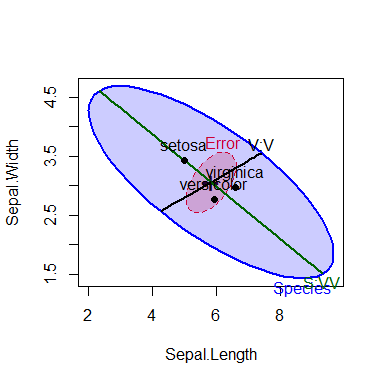
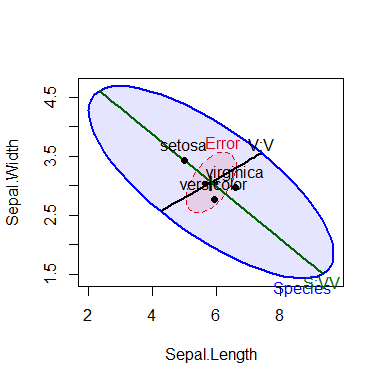
update README

Changed region(s): [[0.2188, 0.2188, 0.875, 0.7188]]

diff --git a/README.md b/README.md
@@ -32,14 +32,32 @@ Friendly & Sigal (2017) for an applied R tutorial.
 
 Other topics now addressed here include:
 
--   robust MLMs,
+-   robust MLMs, using iteratively re-weighted least squared to
+    down-weight observations with large multivariate residuals,
+    `robmlm()`.
+-   `Mahalanobis()` calculates classical and robust Mahalanobis squared
+    distances using MCD and MVE estimators of center and covariance.
 -   visualizing tests for equality of covariance matrices in MLMs (Box’s
-    M test),
--   chi square Q-Q plots for MLMs.
+    M test), `boxM()` and `plot.boxM()`.
+-   $\chi^2$ Q-Q plots for MLMs (`cqplot()`) to detect outliers and
+    assess multivariate normality of residuals.
+-   bivariate coefficient plots showing elliptical confidence regions
+    (`coefplot()`).
 
-The package also provides a collection of data sets illustrating a
-variety of multivariate linear models of the types listed above,
-together with graphical displays.
+In this respect, the `heplots` package now aims to provide a wide range
+of tools for analyzing and visualizing multivariate response linear
+models.
+
+The related [`candisc`](http://github.com/friendly/candisc) package
+provides HE plots in **canonical discriminant** space, the space of
+linear combinations of the responses that show the maximum possible
+effects and for canonical correlation in multivariate regression
+designs.
+
+Another package,
+[`mvinfluence`](https://friendly.github.io/mvinfluence/), provides
+diagnostic measures and plots for influential observations in MLM
+designs.
 
 Several tutorial vignettes are also included. See
 `vignette(package="heplots")`.
@@ -48,23 +66,17 @@ Several tutorial vignettes are also included. See
 
 Get the released version from CRAN:
 
-     install.packages("heplots")
+      install.packages("heplots")
 
 The development version of `heplots` can be installed to your R library
 directly from github via:
 
-``` r
-if (!require(devtools)) install.packages("devtools")
-library(devtools)
-install_github("friendly/heplots", build_vignettes = TRUE)
-```
+      remotes::install_github("friendly/heplots")
 
-This installs the package from the source and creates the package
-vignettes, so you will need to have R Tools installed on your system. [R
-Tools for Windows](https://cran.r-project.org/bin/windows/Rtools/) takes
-you to the download page for Windows. [R Tools for Mac OS
-X](https://cran.r-project.org/bin/macosx/tools/) has the required
-programs for Mac OS X.
+<!-- This installs the package from the source and creates the package vignettes,  -->
+<!-- so you will need to have R Tools installed on your system.  [R Tools for Windows](https://cran.r-project.org/bin/windows/Rtools/) -->
+<!-- takes you to the download page for Windows.  [R Tools for Mac OS X](https://cran.r-project.org/bin/macosx/tools/) -->
+<!-- has the required programs for Mac OS X. -->
 
 ## HE plot functions
 
@@ -85,9 +97,21 @@ effects in variable (**data**) space, for one or more response variables
 -   `heplot1d()` constructs 1-dimensional analogs of HE plots for model
     terms and linear hypotheses for single response variables.
 
-The related [`candisc`](http://github.com/friendly/candisc) package
-plots these in **canonical discriminant** space, the space of linear
-combinations of the responses that show the maximum possible effects.
+## Other functions
+
+-   `glance.mlm()` extends `broom::glance.lm()` to multivariate response
+    models, giving a one-line statistical summary for each response
+    variable.
+
+-   `boxM()` Calculates Box’s *M* test for homogeneity of covariance
+    matrices in a MANOVA design. A `plot` method displays a visual
+    representation of the components of the test. Associated with this,
+    `bartletTests()` and `levineTests()` give the univariate tests of
+    homogeneity of variance for each response measure in a MLM.
+
+-   `covEllipses()` draw covariance (data) ellipses for one or more
+    group, optionally including the ellipse for the pooled within-group
+    covariance.
 
 ### Repeated measure designs
 
@@ -98,16 +122,62 @@ carry out a linear transformation of the matrix **Y** of responses to a
 matrix **Y M**, where **M** is the model matrix for a term in the
 intra-subject design and produce plots of the H and E matrices in this
 transformed space. The vignette `"repeated"` describes these graphical
-methods for repeated measures designs.
+methods for repeated measures designs. (At present, this vignette is
+only available at [HE plots for repeated measures
+designs](http://www.jstatsoft.org/v37/i04/paper).)
+
+## Datasets
+
+The package also provides a large collection of data sets illustrating a
+variety of multivariate linear models of the types listed above,
+together with graphical displays.
+
+``` r
+vcdExtra::datasets("heplots")[, c("Item", "Title")] |> knitr::kable()
+```
+
+| Item             | Title                                                       |
+|:-----------------|:------------------------------------------------------------|
+| AddHealth        | Adolescent Health Data                                      |
+| Adopted          | Adopted Children                                            |
+| Bees             | Captive and maltreated bees                                 |
+| Diabetes         | Diabetes Dataset                                            |
+| FootHead         | Head measurements of football players                       |
+| Headache         | Treatment of Headache Sufferers for Sensitivity to Noise    |
+| Hernior          | Recovery from Elective Herniorrhaphy                        |
+| Iwasaki_Big_Five | Personality Traits of Cultural Groups                       |
+| MockJury         | Effects Of Physical Attractiveness Upon Mock Jury Decisions |
+| NLSY             | National Longitudinal Survey of Youth Data                  |
+| NeuroCog         | Neurocognitive Measures in Psychiatric Groups               |
+| Oslo             | Oslo Transect Subset Data                                   |
+| Parenting        | Father Parenting Competence                                 |
+| Plastic          | Plastic Film Data                                           |
+| Pottery2         | Chemical Analysis of Romano-British Pottery                 |
+| Probe1           | Response Speed in a Probe Experiment                        |
+| Probe2           | Response Speed in a Probe Experiment                        |
+| RatWeight        | Weight Gain in Rats Exposed to Thiouracil and Thyroxin      |
+| ReactTime        | Reaction Time Data                                          |
+| Rohwer           | Rohwer Data Set                                             |
+| RootStock        | Growth of Apple Trees from Different Root Stocks            |
+| Sake             | Taste Ratings of Japanese Rice Wine (Sake)                  |
+| Skulls           | Egyptian Skulls                                             |
+| SocGrades        | Grades in a Sociology Course                                |
+| SocialCog        | Social Cognitive Measures in Psychiatric Groups             |
+| TIPI             | Data on the Ten Item Personality Inventory                  |
+| VocabGrowth      | Vocabulary growth data                                      |
+| WeightLoss       | Weight Loss Data                                            |
+| mathscore        | Math scores for basic math and word problems                |
+| schooldata       | School Data                                                 |
 
 ## Examples
 
 This example illustrates HE plots using the classic `iris` data set. How
-do the means of the flower variables differ by `Species`? A basic HE
-plot shows the **H** and **E** ellipses for the first two response
-variables (here: `Sepal.Length` and `Sepal.Width`). The multivariate
-test is significant (by Roy’s test) *iff* the **H** ellipse projects
-*anywhere* outside the **E** ellipse.
+do the means of the flower variables differ by `Species`?
+
+A basic HE plot shows the **H** and **E** ellipses for the first two
+response variables (here: `Sepal.Length` and `Sepal.Width`). The
+multivariate test is significant (by Roy’s test) *iff* the **H** ellipse
+projects *anywhere* outside the **E** ellipse.
 
 The positions of the group means show how they differ on the two
 response variables shown, and provide an interpretation of the
@@ -120,7 +190,7 @@ iris.mod <- lm(cbind(Sepal.Length, Sepal.Width, Petal.Length, Petal.Width) ~
 heplot(iris.mod)
 ```
 
-<img src="man/figures/README-iris1-1.png" width="60%" />
+<img src="man/figures/README-iris1-1.png" width="70%" />
 
 Contrasts or other linear hypotheses can be shown as well, and the
 ellipses look better if they are filled. We create contrasts to test the
@@ -140,10 +210,10 @@ iris.mod <- lm(cbind(Sepal.Length, Sepal.Width, Petal.Length, Petal.Width) ~
 
 hyp <- list("V:V"="Species1","S:VV"="Species2")
 heplot(iris.mod, hypotheses=hyp, 
-       fill=TRUE, fill.alpha=0.2)
+       fill=TRUE, fill.alpha=0.1)
 ```
 
-<img src="man/figures/README-iris2-1.png" width="60%" />
+<img src="man/figures/README-iris2-1.png" width="70%" />
 
 All pairwise HE plots are produced using the `pairs` method for MLM
 objects.
@@ -153,7 +223,7 @@ pairs(iris.mod, hypotheses=hyp, hyp.labels=FALSE,
       fill=TRUE, fill.alpha=0.1)
 ```
 
-<img src="man/figures/README-iris3-1.png" width="60%" />
+<img src="man/figures/README-iris3-1.png" width="90%" />
 
 ## References
 
@@ -167,7 +237,7 @@ Understanding Statistical Methods Through Elliptical Geometry
 *Statistical Science*, **28**, 1-39. [paper
 PDF](http://datavis.ca/palers/ellipses-STS402.pdf)
 
-Friendly, M. & Sigal, M. (2017) Graphical Methods for Multivariate
+Friendly, M. & Sigal, M. (2017). Graphical Methods for Multivariate
 Linear Models in Psychological Research: An R Tutorial. *The
 Quantitative Methods for Psychology*, **13**, 20-45.
 [article](https://doi.org/10.20982/tqmp.13.1.p020)
